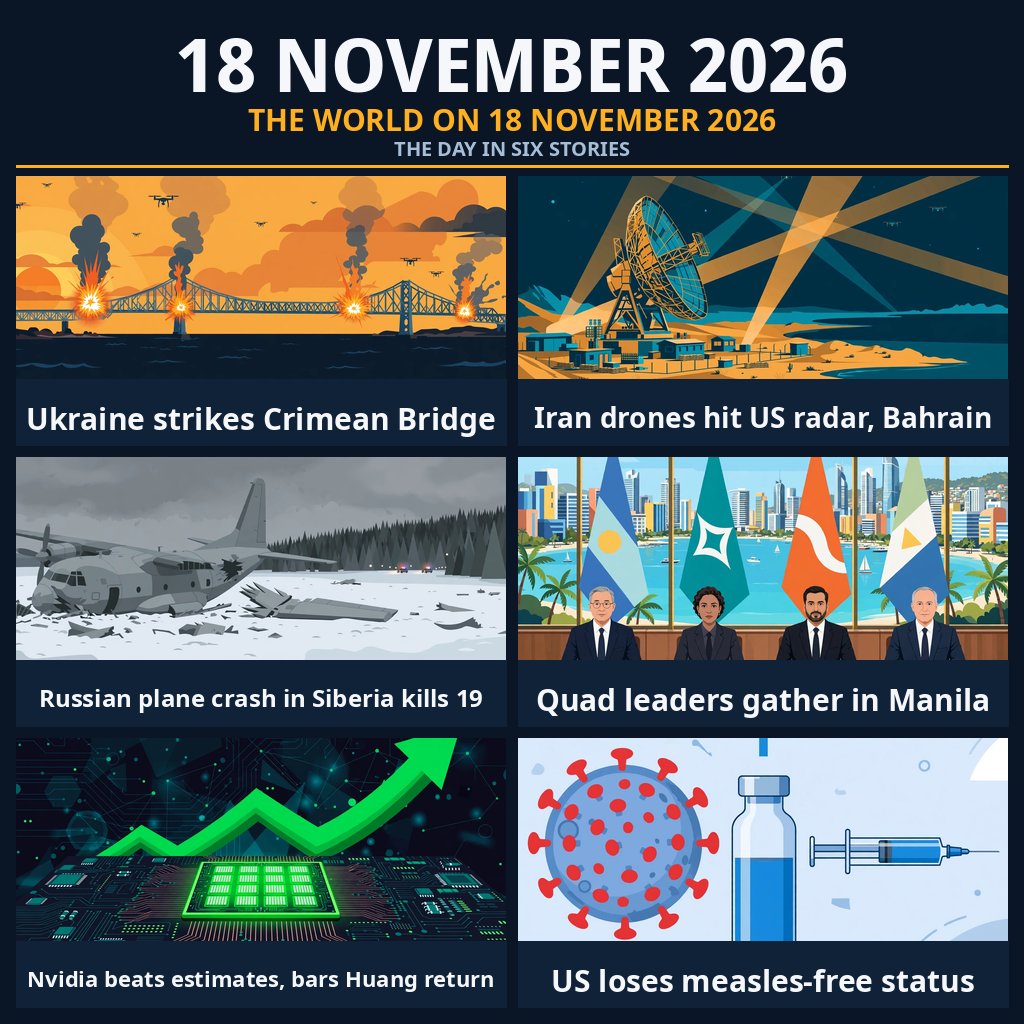
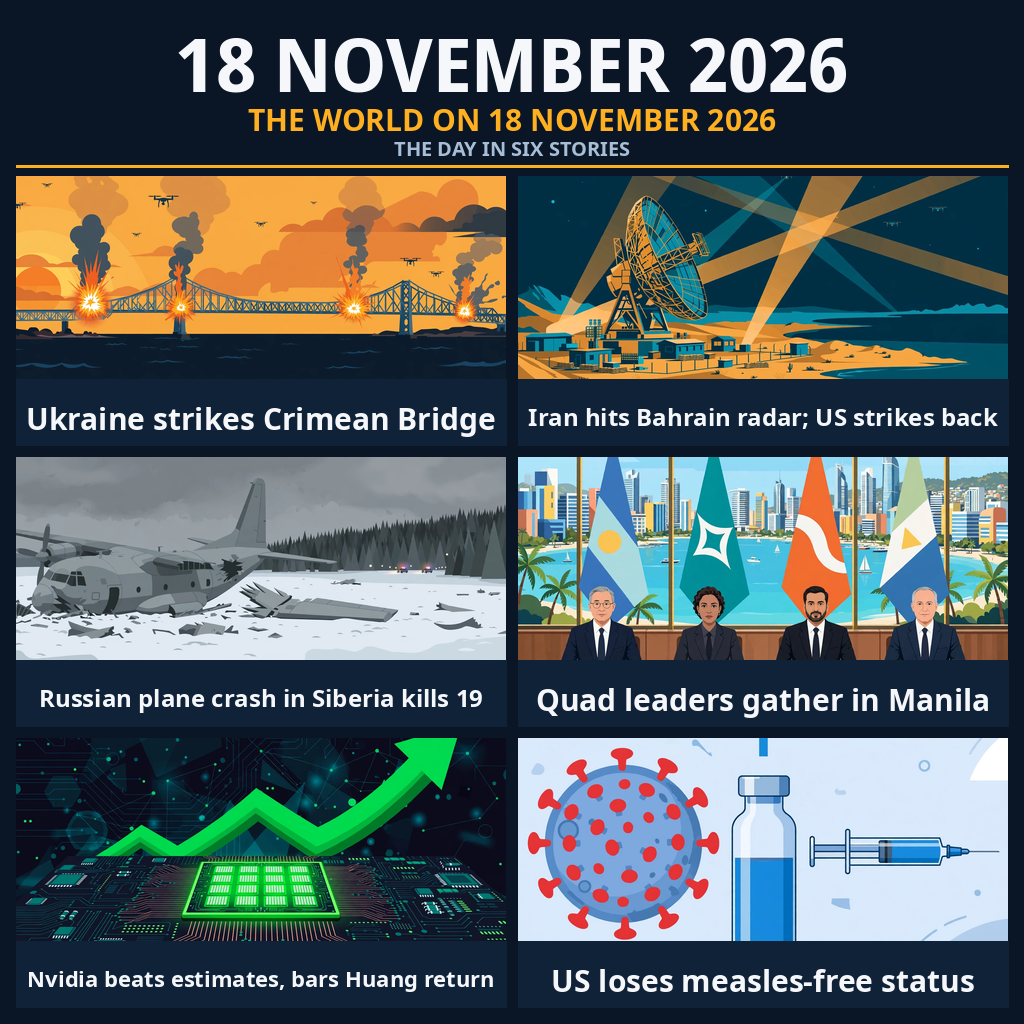
Update story 2: US strikes Qeshm, Iran hits Kuwait Ali Al-Salem, GCC condemns

Changed region(s): [[0.5, 0.375, 0.9688, 0.4375]]

diff --git a/build/composite.py b/build/composite.py
@@ -34,7 +34,7 @@ COLS, ROWS = 2, 3
 # (panel file, caption) -- captions name what happened, 3-8 words each.
 STORIES = [
     ("bridge.png",  "Ukraine strikes Crimean Bridge"),
-    ("radar.png",   "Iran drones hit US radar, Bahrain"),
+    ("radar.png",   "Iran hits Bahrain radar; US strikes back"),
     ("crash.png",   "Russian plane crash in Siberia kills 19"),
     ("quad.png",    "Quad leaders gather in Manila"),
     ("nvidia.png",  "Nvidia beats estimates, bars Huang return"),

diff --git a/README.md b/README.md
@@ -28,11 +28,14 @@ the day's news changes.
    drone operation, while Russia struck bridges in Kyiv and Moscow
    opened a terrorism probe. *Still developing.*
    (The Sunday Guardian; DW; South China Morning Post)
-2. **Iran drones hit US radar, Bahrain** — Iran's IRGC claimed a
-   drone strike on a US military radar system at Bahrain's Sheikh Isa
-   Air Base; Kuwait reported drone interceptions and Bahrain later
-   announced an all-clear. *Still developing.*
-   (The Indian Express; Jagran Josh; AppiSToS)
+2. **Iran hits Bahrain radar; US strikes back** — Iran's IRGC claimed
+   a drone strike on a US military radar system at Bahrain's Sheikh
+   Isa Air Base; US fighter jets hit an IRGC missile launch site on
+   Iran's Qeshm Island in retaliation. Iran's army then said its
+   drones targeted US Patriot systems at Kuwait's Ali Al-Salem Air
+   Base, and the GCC condemned the attacks and called for UN Security
+   Council action. *Still developing.*
+   (Gulf News; Dawn; Reuters via GMA)
 3. **Russian plane crash in Siberia kills 19** — a Russian military
    transport plane crashed in Siberia, killing 19 people.
    (NDTV; Times Now)
